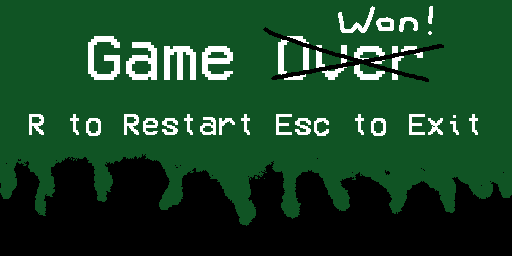
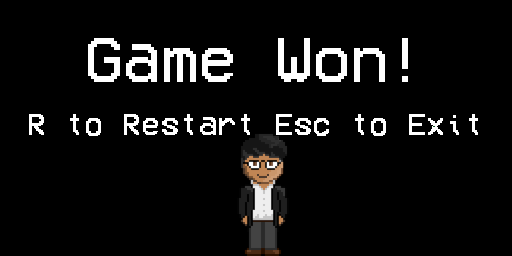
Implement game pause, better win screen

diff --git a/src/game.py b/src/game.py
@@ -37,6 +37,7 @@ class Game:
         # Internal game variables.
         self.healthBar = self.resources.get_image("health")
         self.fuelBar = self.resources.get_image("fuel")
+        self.paused = self.resources.get_image("paused")
         self.entities = set()
         self.currentLevel = None
         self.playerEntity = None
@@ -61,11 +62,35 @@ class Game:
         """Removes an entity from the internal entity tracking system."""
         self.entities.remove(entity)
 
+    def game_pause_loop(self):
+        paused = True
+
+        self.display.blit(pygame.transform.scale(self.paused, self.scaledResolution), (0, 0))
+        pygame.display.flip()
+
+        while paused and self.running:
+            for event in pygame.event.get():
+                if event.type == pygame.QUIT:
+                    self.running = False
+                elif event.type == pygame.KEYDOWN:
+                    if event.key == pygame.locals.K_ESCAPE:
+                        paused = False
+                    elif event.key == pygame.locals.K_r:
+                        self.running = False
+                        self.gameResult = 2
+                    elif event.key == pygame.locals.K_q:
+                        self.running = False
+
     def tick(self, deltaTime: float) -> None:
         """Updates the game's internal state."""
         for event in pygame.event.get():
             if event.type == pygame.QUIT:
                 self.running = False
+            elif event.type == pygame.KEYDOWN:
+                if event.key == pygame.locals.K_ESCAPE: # Interrupt game loop to pause
+                    self.game_pause_loop()
+                    self.clock.tick(0) # Reset the timer
+                    return
 
         for entity in self.entities.copy():
             entity.tick(self, deltaTime)
@@ -87,15 +112,14 @@ class Game:
     def postgame(self) -> bool:
         """Post game loop."""
         while True: # Now we listen for keystrokes.
-            if self.keyboard.pressed(pygame.locals.K_r):
-                return True
-            if self.keyboard.pressed(pygame.locals.K_ESCAPE):
-                return False
-
             for event in pygame.event.get():
-                pass
-
-            self.clock.tick(30)
+                if event.type == pygame.QUIT:
+                    return False
+                elif event.type == pygame.KEYDOWN:
+                    if event.key == pygame.locals.K_r:
+                        return True
+                    elif event.key == pygame.locals.K_ESCAPE:
+                        return False
 
     def run(self) -> bool:
         """Starts the game loop. This function does not return."""
@@ -125,3 +149,5 @@ class Game:
             pygame.mixer.music.stop()
             pygame.display.flip()
             return self.postgame()
+        elif self.gameResult == 2: # Restart in pause menu
+            return True
